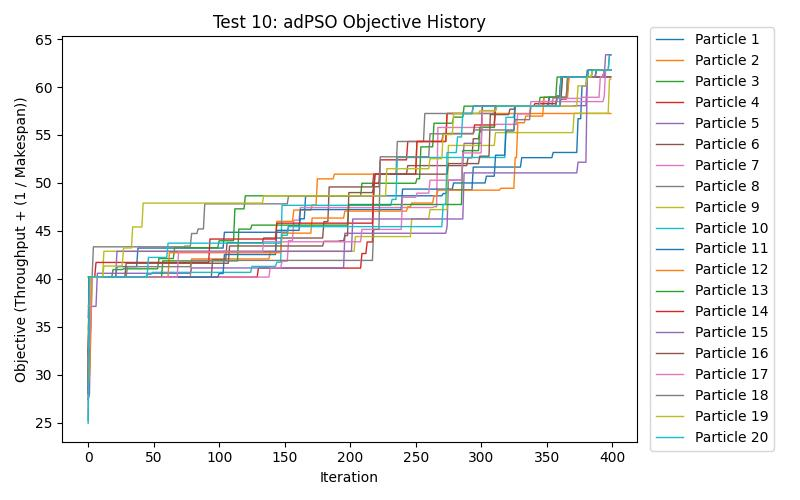
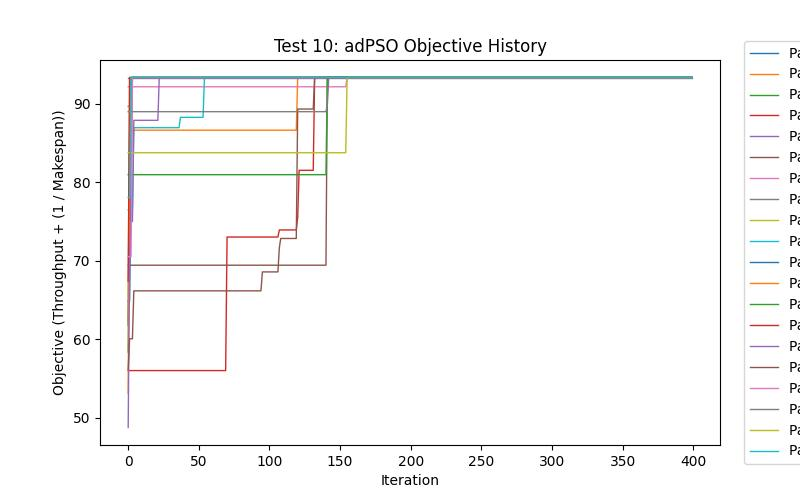
add random seeding

diff --git a/psoscheduler/src/main/java/syslab/cloudcomputing/pso/Particle.java b/psoscheduler/src/main/java/syslab/cloudcomputing/pso/Particle.java
@@ -1,8 +1,8 @@
 package syslab.cloudcomputing.pso;
 
 import java.util.ArrayList;
+import java.util.Collections;
 import java.util.HashMap;
-import java.util.HashSet;
 
 import syslab.cloudcomputing.simulation.DataCenter;
 import syslab.cloudcomputing.simulation.Task;
@@ -20,7 +20,7 @@ public class Particle {
   final static double c1 = 2.0;
   final static double c2 = 1.49455;
 
-  final static double maxAbsoluteVelocity = 10.0; // TODO what value to put in here
+  final static double maxAbsoluteVelocity = 10.0;  // from https://www.sciencedirect.com/science/article/pii/S1319157820305279#e0045
 
   private static int idCounter = 1;
 	private int id;
@@ -119,17 +119,30 @@ public class Particle {
 
   // Minimum completion time algorithm used for initialization as per https://www.sciencedirect.com/science/article/pii/S1319157820305279#e0045
   private void mctInitialization() {
+    // Attempt to overcome this issue with getting stuck in local optimums: https://www.mdpi.com/1999-4893/11/2/23
+    // Potential remedy: https://www.intechopen.com/journals/1/articles/117
     this.position = new Matrix(this.workload.getTaskCount(), this.dataCenter.getVirtualMachineCount());
 
     this.dataCenter.resetVirtualMachineReadyTimes();
 
-    for (Task t : this.workload.getTasks()) {
+    ArrayList<Task> tasks = new ArrayList<Task>(this.workload.getTasks());
+    Collections.shuffle(tasks);
+
+    for (Task t : tasks) {
       VirtualMachine vm = this.dataCenter.getVmWithMinEET(t);
-      this.position.setComponent(t.getId() - 1, vm.getId() - 1, 1);
-      this.dataCenter.addExecutionTimeToVirtualMachine(t, vm);
+      if (Utilities.getRandomDouble(0, 1) > 0.3) {
+        this.position.setComponent(t.getId() - 1, vm.getId() - 1, 1);
+        this.dataCenter.addExecutionTimeToVirtualMachine(t, vm);
+      } else {
+        int vmId = Utilities.getRandomInteger(0, this.dataCenter.getVirtualMachineCount() - 1);
+        VirtualMachine randomVm = this.dataCenter.getVirtualMachineById(vmId);
+        this.position.setComponent(t.getId() - 1, vmId, 1);
+        this.dataCenter.addExecutionTimeToVirtualMachine(t, randomVm);
+      }
     }
     
-    this.velocity = this.position.copy().multiply(0.2).addJ(0.1);
+    this.velocity = new Matrix(this.workload.getTaskCount(), this.dataCenter.getVirtualMachineCount());
+    this.velocity.randomVelocityInitialization(0, 1);
 
     updateDataCenter();
     this.personalBestPosition = this.position;
@@ -186,8 +199,8 @@ public class Particle {
 
   private void updateVelocity(double w) {
     // Randomize constants r1 and r2
-    double r1 = Math.random();
-    double r2 = Math.random();
+    double r1 = Utilities.getRandomDouble(0, 1);
+    double r2 = Utilities.getRandomDouble(0, 1);
 
     // System.out.println("\nParticle " + this.id + " Velocity (before): " + this.velocity);
     Matrix previousVelocityFactor = this.velocity.copy().multiply(w);

diff --git a/psoscheduler/src/main/java/syslab/cloudcomputing/utils/Utilities.java b/psoscheduler/src/main/java/syslab/cloudcomputing/utils/Utilities.java
@@ -8,14 +8,19 @@ import java.util.ArrayList;
 import java.util.Random;
 
 public class Utilities {
+	public static Random rand = new Random();
+
+	public static void setSeed(long seed) {
+		rand.setSeed(seed);
+	}
+
   /*
 	 * Generate a random Integer in range [min, max)
 	 * @param The minimum value to take inclusively
 	 * @param The maximum value to take exclusively
 	 */
 	public static Integer getRandomInteger(int min, int max) {
-		Random ran = new Random();
-		return ran.nextInt(max - min) + min;
+		return rand.nextInt(max - min) + min;
 	}
 	
 	/*
@@ -24,7 +29,7 @@ public class Utilities {
 	 * @param The maximum value to take exclusively
 	 */
 	public static Double getRandomDouble(double min, double max) {
-		return Math.random() * (max - min) + min;
+		return rand.nextDouble() * (max - min) + min;
 	}
 
 	public static void writeObjectiveHistoryToCSV(ArrayList<ArrayList<Double>> objectiveHistories, String path) {

diff --git a/psoscheduler/src/main/java/syslab/cloudcomputing/pso/PSOSwarm.java b/psoscheduler/src/main/java/syslab/cloudcomputing/pso/PSOSwarm.java
@@ -43,17 +43,15 @@ public class PSOSwarm {
   private void initializeSwarm(int nParticles) {
     this.particles = new ArrayList<Particle>();
     for (int i = 0; i < nParticles; i++) {
-      Particle particle = new Particle(this.dataCenter, this.workload, Particle.InitializationStrategy.RANDOM);
+      Particle particle = new Particle(this.dataCenter, this.workload, Particle.InitializationStrategy.MCT);
       this.particles.add(particle);
     }
-
-    // Include one single particle initialized with MCT algorithm
-    // Particle particle = new Particle(this.dataCenter, this.workload, Particle.InitializationStrategy.HIGH_TASK_HIGH_VM);
-    // this.particles.add(particle);
 
     this.findGlobalBest();
     // TODO remove the below line when benchmarking
     // this.getGlobalBestTaskVmMapping();
+
+    System.out.println(this.globalBestMakespan);
   }
 
   private void updateTaskVmMapping() {

diff --git a/plot_objective_history.py b/plot_objective_history.py
@@ -13,7 +13,7 @@ def plot(test_id, particle_histories, path):
   plt.xlabel("Iteration")
   plt.ylabel("Objective (Throughput + (1 / Makespan))")
   plt.legend(bbox_to_anchor = (1.25, 0.5), loc='center right')
-  plt.tight_layout()
+  # plt.tight_layout()
 
   plt.savefig(path)
 

diff --git a/psoscheduler/src/main/java/syslab/cloudcomputing/schedule/Scheduler.java b/psoscheduler/src/main/java/syslab/cloudcomputing/schedule/Scheduler.java
@@ -12,6 +12,9 @@ import syslab.cloudcomputing.simulation.*;
 
 public class Scheduler {
     public static void main(String[] args) {
+        // Set random seed
+        Utilities.setSeed(0);
+
         DataCenter dataCenter;
         Workload workload;
 
